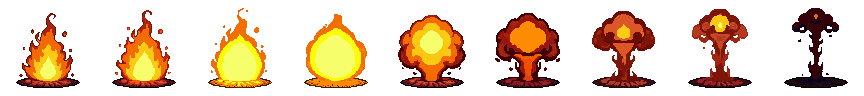
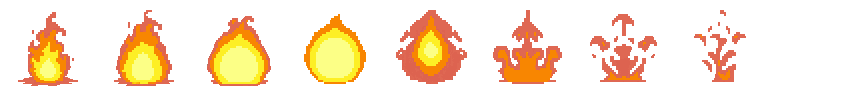
wip: weitere Raumzustände und Effekte generiert, Effekte über PixMiniMax
Claude-Session: https://claude.ai/code/session_01RK5HrQgbeXFdiyKpWMCC8c

diff --git a/scripts/effects.ts b/scripts/effects.ts
@@ -2,7 +2,7 @@
  * Attack effects ("Angriffe"): a fixed library of short PixelLab animations – fireballs, bullets,
  * claw marks, lightning, hearts … – made once and bundled, so a duel never waits for one. Each
  * effect in content/core/effects.json gets a first frame (pixflux) and an animation of it
- * (animate-with-text); projectiles also get an impact. Frames are written side by side as one
+ * (animate-pixminimax); projectiles also get an impact. Frames are written side by side as one
  * strip: src/render/effects/<id>.png and <id>-impact.png.
  *
  *   PIXELLAB_API_KEY=… npm run effects [-- fireball bullet …] [--force]
@@ -60,7 +60,15 @@ async function firstFrame(name: string, description: string, size: number): Prom
 async function animate(name: string, first: string, action: string): Promise<Rgba[]> {
   let id = force ? undefined : jobs.get(name);
   if (id === undefined) {
-    const res = await fetch(`${API}/animate-with-text-v3`, { method: "POST", headers, body: JSON.stringify({ first_frame: { type: "base64", base64: first }, action, frame_count: 8, no_background: true, seed: 7 }) });
+    // PixMiniMax: a much shorter queue than animate-with-text-v3 (minutes, not a quarter hour) and
+    // steadier loops; 1 generation for 64 px × 8 frames. Tier 2 allows 11 jobs at once – a full
+    // house answers 429, so wait for a slot.
+    let res: Response;
+    for (;;) {
+      res = await fetch(`${API}/animate-pixminimax`, { method: "POST", headers, body: JSON.stringify({ first_frame: { type: "base64", base64: first }, description: action, frame_count: 8, no_background: true, seed: 7 }) });
+      if (res.status !== 429) break;
+      await new Promise((r) => setTimeout(r, 15000));
+    }
     id = ((await res.json()) as { background_job_id?: string }).background_job_id;
     if (!res.ok || id === undefined) throw new Error(`${name}: animate ${String(res.status)}`);
     jobs.set(name, id);
